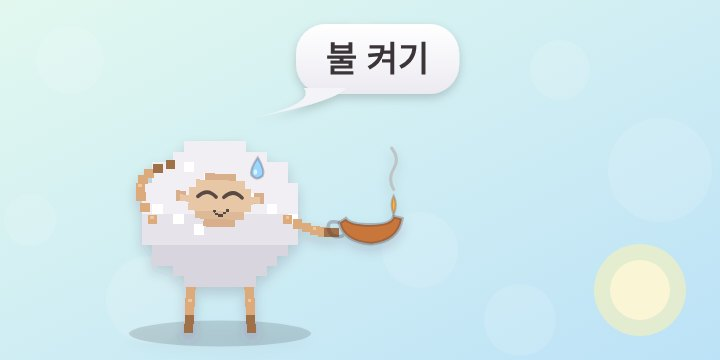
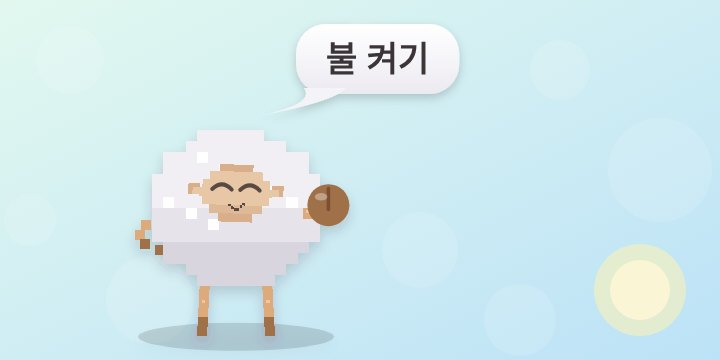
Curate 30 reminder sheep poses

Changed region(s): [[0.1833, 0.3667, 0.5806, 0.7028], [0.1833, 0.7028, 0.4583, 0.9778]]

diff --git a/sw.js b/sw.js
@@ -9,10 +9,10 @@ const DEFAULT_MESSAGES = {
   // 아침(~12시): 아침부터 슬쩍 킹받게
   morning: [
     ["아담아, 네가 어디 있느냐 👀", "하나님이 아담을 찾으시던 그 질문(창 3:9), 지금 성경책이 똑같이 묻고 있어요. 오늘 분량 {portion}.", "point", "너 어디 있니?"],
-    ["새벽기도는 놓쳤어도 괜찮아요 🌅", "주의 긍휼은 아침마다 새롭다잖아요(애 3:22-23). 아침 기회도 아직 새거예요. {portion} 펼쳐요.", "stretch", "아직 아침임"],
+    ["새벽기도는 놓쳤어도 괜찮아요 🌅","주의 긍휼은 아침마다 새롭다잖아요(애 3:22-23). 아침 기회도 아직 새거예요. {portion} 펼쳐요.","cheer","아직 아침임"],
     ["만나는 해 뜨거워지면 녹습니다 🫠", "출애굽기 16장 21절 실화. 오늘 만나({portion})도 점심 전에 거두는 게 국룰이에요.", "shock", "만나 녹는 중"],
     ["아침 묵상 안 한 양 찾습니다 🔍","목자는 아흔아홉 마리 두고 한 마리를 찾는다던데(눅 15:4)… 네, 지금 찾는 그 한 마리가 당신이에요.","reach","양 찾습니다\n(당신임)"],
-    ["커피는 드셨고, 말씀은요? ☕", "커피는 벌써 두 잔째인데 성경은 아직 0장. 순서가 살짝 바뀐 것 같아요.", "sip", "커피 ≠ 말씀"],
+    ["커피는 드셨고, 말씀은요? ☕","커피는 벌써 두 잔째인데 성경은 아직 0장. 순서가 살짝 바뀐 것 같아요.","crosslegs","커피 ≠ 말씀"],
     ["다니엘은 하루 세 번 기도했대요 🦁", "사자 굴 각오하고도 했던 다니엘(단 6:10). 우리는 사자도 없는데 {portion} 정도는…?", "pray", "사자 없음 ㅇㅈ?"],
     ["알람 끄고 다시 잠든 거 다 알아요 🤫", "게으른 자여 네가 어느 때까지 누워 있겠느냐(잠 6:9). 잠언이 너무 정확해서 무서운 아침이에요.", "shush", "다 봤음"],
     ["카톡 30개보다 말씀 1장 먼저 📱","알림 빨간 숫자는 기다려 줘요. 오늘 분량 {portion}은 아침에 읽어야 제맛이고요.","phonewait","카톡 말고 이거"],
@@ -22,22 +22,22 @@ const DEFAULT_MESSAGES = {
     ["아침부터 갓생 선언 🔥", "갓생의 시작은 여호와를 경외하는 데서 시작한대요(잠 1:7). {portion} 한 장이면 시작 완료!", "cheer", "갓생 시작"],
     ["알람 5개 끄고 일어난 거 인정 ⏰", "잠 6:10은 '조금 더 자고 팔짱 끼고'를 경고해요. 이제 팔짱 푸시고 {portion}!", "armscross", "팔짱 풀기"],
     ["오늘 목표: 어제보다 1절 더 🎯", "엄청 많이 말고 어제보다 한 절만 더요. 작은 걸음이 쌓이면 길이 돼요.", "point", "1절만 더"],
-    ["공복에 말씀 먼저 🍳", "몸 밥은 나중에, 영혼 밥은 먼저요(마 4:4). {portion} 드시고 아침 드세요.", "sip", "말씀 먼저 간식"],
-    ["물 말고 말씀부터? 💧", "물은 한 잔이면 충분하지만 말씀은 아침에 한 장이 베스트래요.", "stretch", "물 말고 말씀"],
+    ["공복에 말씀 먼저 🍳","몸 밥은 나중에, 영혼 밥은 먼저요(마 4:4). {portion} 드시고 아침 드세요.","crosslegs","말씀 먼저 간식"],
+    ["물 말고 말씀부터? 💧","물은 한 잔이면 충분하지만 말씀은 아침에 한 장이 베스트래요.","cheer","물 말고 말씀"],
     ["어제 읽다 졸았죠? 😏", "괜찮아요. 그래도 오늘 {portion}은 깨어서 봐요. 베드로도 졸았지만 다시 깨어났잖아요(마 26:40).", "peek", "졸았는지 다 봤음"],
     ["출석 부름 받은 거 아시죠? 📋", "하나님은 아담을 부르셨죠(창 3:9). 오늘도 호명에 대답하기! {portion} 펴요.", "sign", "출석 부름"],
   ["새벽 미명에 일어난 사람 🌄","다윗도 새벽에 일어나 말씀에 매달렸대요(시 119:147). 오늘 {portion}, 해 뜨기 전에 먼저 만나 봐요.","run","해 뜨기 전 ㅊㅊ"],
-  ["아침 첫 소리는 하나님 말씀으로 📣","하루의 첫 소리를 무엇으로 채울지 정해 봐요. 오늘은 {portion}이 첫 방송이에요.","megaphone","첫 방송 예약"],
-  ["아침 등불은 말씀이래요 💡","주의 말씀은 내 발에 등이요(시 119:105). 어두운 아침, {portion}으로 불부터 켜요.","lamp","불 켜기"],
-  ["오늘 아침 얼굴 붉히지 않게 🌸","부끄러울 일 없는 하루는 말씀으로 시작할 때 쉬워요. {portion}, 지금 펼쳐 볼까요?","blush","얼굴 빨개짐"],
+  ["아침 첫 소리는 하나님 말씀으로 📣","하루의 첫 소리를 무엇으로 채울지 정해 봐요. 오늘은 {portion}이 첫 방송이에요.","sign","첫 방송 예약"],
+  ["아침 등불은 말씀이래요 💡","주의 말씀은 내 발에 등이요(시 119:105). 어두운 아침, {portion}으로 불부터 켜요.","point","불 켜기"],
+  ["오늘 아침 얼굴 붉히지 않게 🌸","부끄러울 일 없는 하루는 말씀으로 시작할 때 쉬워요. {portion}, 지금 펼쳐 볼까요?","heartplease","얼굴 빨개짐"],
   ["아침부터 이마 치기 전에 🤦","어제 뭘 읽었는지 가물가물하다면 괜찮아요. 오늘 {portion}으로 기억을 다시 채워요.","facepalm","기억 리셋"],
   ["새 아침은 새 말씀으로 🌱","주의 인자하심이 아침마다 새로워요(애 3:23). 오늘 {portion}도 처음 읽는 것처럼요.","pray","새 아침"],
-  ["아침 한 숟가락, 말씀 한 장 🥄","밥 한 숟가락 뜨기 전에 {portion} 한 절만 먼저 떠 보세요. 배부른 하루가 시작돼요.","sip","한 숟가락 먼저"],
-  ["독수리처럼 날개 치기 전에 🦅","날개 치며 오르려면 먼저 든든히 먹어야 해요(사 40:31). 오늘 {portion}이 그 든든한 아침이에요.","stretch","날개 준비"],
+  ["아침 한 숟가락, 말씀 한 장 🥄","밥 한 숟가락 뜨기 전에 {portion} 한 절만 먼저 떠 보세요. 배부른 하루가 시작돼요.","crosslegs","한 숟가락 먼저"],
+  ["독수리처럼 날개 치기 전에 🦅","날개 치며 오르려면 먼저 든든히 먹어야 해요(사 40:31). 오늘 {portion}이 그 든든한 아침이에요.","cheer","날개 준비"],
   ["나를 부지런히 찾는 자 🔎","새벽에 나를 찾는 자가 나를 만나리라(잠 8:17). 오늘도 {portion}에서 만나요.","peek","찾았다!"],
     ["좋은 아침이에요, 오늘도 함께 읽어요 ☀", "서두르지 않아도 괜찮아요. 오늘의 {portion}에서 마음에 닿는 한 문장을 만나 보세요.", "pray", "천천히 한 문장"],
-    ["오늘 첫 페이지를 열 시간 📖", "딱 한 장부터 시작해요. 작은 시작이 하루의 방향을 바꿔 줍니다.", "lamp", "첫 페이지"],
-    ["아침 브리핑: 오늘의 말씀 도착 🗞", "하늘에서 온 오늘의 소식입니다. {portion}, 지금 확인해 보세요.", "megaphone", "오늘의 말씀"],
+    ["오늘 첫 페이지를 열 시간 📖","딱 한 장부터 시작해요. 작은 시작이 하루의 방향을 바꿔 줍니다.","point","첫 페이지"],
+    ["아침 브리핑: 오늘의 말씀 도착 🗞","하늘에서 온 오늘의 소식입니다. {portion}, 지금 확인해 보세요.","sign","오늘의 말씀"],
   ],
   // 오후(12~18시) 나른할 때 찌르기
   afternoon: [
@@ -49,7 +49,7 @@ const DEFAULT_MESSAGES = {
     ["삭개오야, 속히 내려오라 🌳", "나무 위에서 구경만 하던 삭개오처럼(눅 19:5), 오늘 말씀도 구경만 하고 있진 않나요?", "point", "내려오라"],
     ["오늘 통독률 0%… 실화? ⏳", "와이파이는 빵빵한데 말씀 진도는 0%. 지금 {portion} 누르면 바로 로딩 시작이에요.", "eye_roll", "0%…실화?"],
     ["마리아는 좋은 편을 택했대요 ✨", "바쁜 오후여도 필요한 것은 한 가지(눅 10:42). 할 일 목록 맨 위에 {portion} 올려 둘게요.", "sign", "좋은 편\n택하는 중"],
-    ["바로 왕처럼 '내일' 하실 건가요? 🐸", "개구리 재앙 언제 없애 줄까 물으니 '내일'이라던 바로(출 8:10). 어디서 많이 본 패턴인데요.", "sip", "내일? 🐸"],
+    ["바로 왕처럼 '내일' 하실 건가요? 🐸","개구리 재앙 언제 없애 줄까 물으니 '내일'이라던 바로(출 8:10). 어디서 많이 본 패턴인데요.","crosslegs","내일? 🐸"],
     ["남은 알림 전에 선수 치기 🏃", "지금 읽으면 오늘 남은 알림이 조용해져요. 알림 피하는 가장 빠른 방법!", "shush", "조용히 끝내자"],
     ["오후 3시 집중력 바닥 🫠", "엘리야도 로뎀나무 아래서 쓰러졌지만 천사가 먹을 것을 주고 다시 세웠어요(왕상 19:5-7). {portion} 한 장으로 충전!", "lounge", "충전 필요"],
     ["점심 먹고 쇼츠 3개 봤죠? 📱", "쇼츠는 3개에서 멈추기 힘들지만, 성경은 {portion} 한 장에서 멈춰도 괜찮아요.", "phone", "쇼츠 말고 이거"],
@@ -59,7 +59,7 @@ const DEFAULT_MESSAGES = {
     ["오후 간식은 말씀 간식 🍪", "꿀보다 달다는 말씀이에요(시 119:103). 칼로리 걱정 없는 간식! {portion} 한 입.", "crosslegs", "칼로리 0"],
     ["버스 타는 중이면 한 절 🚌", "버스 세 정거장이면 한 장도 가능한 거리예요. {portion} 열어 두세요.", "phone", "버스에서 한 절"],
     ["'내일 하지 뭐' 금지 ⏳","바로처럼 미루다 보면 결국 못 가요(출 8:10). 지금 {portion} 부탁!","fingerwag","내일 금지"],
-    ["잠깐, 마음에 쉼표를 놓아 볼까요? 🍃", "바쁜 틈에 숨을 고르고 {portion} 한 장 읽어요. 오늘도 충분히 잘하고 있어요.", "stretch", "마음의 쉼표"],
+    ["잠깐, 마음에 쉼표를 놓아 볼까요? 🍃","바쁜 틈에 숨을 고르고 {portion} 한 장 읽어요. 오늘도 충분히 잘하고 있어요.","cheer","마음의 쉼표"],
     ["3분만 집중 모드 켜기 🎧", "알림은 잠시 내려놓고 말씀 한 단락만 읽어 봐요. 작은 집중이 깊은 쉼이 됩니다.", "phone", "집중 모드"],
     ["속보: 오후의 내가 말씀을 기다립니다 📰", "쇼츠 한 편 대신 {portion} 한 장이면 오늘 이야기의 주인공은 나예요.", "sign", "속보입니다"],
   ],
@@ -73,8 +73,8 @@ const DEFAULT_MESSAGES = {
     ["저녁은 드셨고, 말씀은요? 🍚", "사람이 떡으로만 살 것이 아니라 하셨는데(마 4:4), 오늘 설마 떡만 드신 건 아니죠?", "armscross", "떡만 먹음?"],
     ["롯의 아내처럼 뒤돌아보지 마요 🧂", "오늘 하루 돌아보며 한숨 쉬지 말고(창 19:26), 앞에 놓인 {portion}만 보고 가요.", "shock", "소금 될 뻔"],
     ["노아는 비 오기 전에 방주 지었어요 🛶", "비 오고 나서 지으면 늦잖아요(창 6:22). 자정 오기 전에 {portion} 지어 봐요.", "run", "비 오기 전에!"],
-    ["여리고는 일곱 바퀴, 오늘은 한 장부터 🎺", "여리고 성은 일곱 바퀴 돌아야 무너졌지만(수 6:4), 오늘 분량은 한 장씩 넘기면 무너져요.", "megaphone", "뿌우우~"],
-    ["기드온처럼 표징 기다리는 중? 🐑","양털로 확인하던 기드온처럼(삿 6:37) 사인을 기다리셨다면… 이 양이 그 표징입니다. 지금 읽으세요.","smirk","이게 표징임"],
+    ["여리고는 일곱 바퀴, 오늘은 한 장부터 🎺","여리고 성은 일곱 바퀴 돌아야 무너졌지만(수 6:4), 오늘 분량은 한 장씩 넘기면 무너져요.","sign","뿌우우~"],
+    ["기드온처럼 표징 기다리는 중? 🐑","양털로 확인하던 기드온처럼(삿 6:37) 사인을 기다리셨다면… 이 양이 그 표징입니다. 지금 읽으세요.","condescend","이게 표징임"],
     ["저녁 먹고 뭐 하세요? 🍽","설거지 끝나고 소파에 눕기 전에 {portion} 먼저 펼쳐요. 누워서 해도 인정!","sideeye","소파 전에 한 장"],
     ["오늘 하루 감사 한 줄 준비 ✍", "오늘 말씀 한 절에 감사 한 줄 쓰면 하루가 완성돼요(살전 5:18).", "sign", "감사 한 줄"],
     ["ㅋㅋ 오늘 통독 안 하고 밤 되었죠? 🌙", "밤에 하면 조금 더 힘들어요. 그래도 {portion} 한 장!", "shock", "밤이 왔다"],
@@ -96,42 +96,42 @@ const DEFAULT_MESSAGES = {
     ["보아스가 이삭을 남겨 뒀어요 🌾", "룻을 위해 일부러 이삭을 흘려 두던 보아스처럼(룻 2:16), 오늘 말씀 이삭도 넉넉히 남아 있어요.", "crosslegs", "이삭 남음 ㅎ"],
     ["에스라는 새벽부터 정오까지 읽었대요 📖", "느헤미야 8장의 에스라는 반나절을 읽었는데(느 8:3), 우리는 {portion}이면 돼요. 할 만하죠?", "sign", "에스라: 6시간\n나: 0분"],
     ["주야로 묵상, 이제 '야'만 남았어요 🌙", "복 있는 사람은 주야로 묵상한다죠(시 1:2). 낮은 지나갔지만 밤은 아직 길어요.", "lounge", "이제 '야'임"],
-    ["발람의 나귀도 말을 했는데 🫏", "나귀까지 입을 열어 말렸는데(민 22:28), 이제 양까지 나섰습니다. 성경 펴세요.", "megaphone", "양도 말함"],
-    ["닭 울기 전에 세 번째 다짐? 🐓", "“오늘은 진짜 읽는다” 오늘 몇 번째 다짐이세요? 닭 울기 전에 지켜 봐요(마 26:34).", "sip", "세 번째임"],
-    ["섭리 가운데 도착한 알림입니다 😌","이 알림을 지금 보신 것도 섭리 안에 있겠죠? 순종으로 응답할 시간이에요.","smirk","섭리임 ㅇㅇ"],
-    ["밤이 깊을수록 말씀이 또렷 🌃","밤에 읽는 시편은 참 맛있어요. 주야로 묵상하는 사람은 복 있는 사람이래요(시 1:2). {portion}!","shrug","밤 시편 맛집"],
+    ["발람의 나귀도 말을 했는데 🫏","나귀까지 입을 열어 말렸는데(민 22:28), 이제 양까지 나섰습니다. 성경 펴세요.","sign","양도 말함"],
+    ["닭 울기 전에 세 번째 다짐? 🐓","“오늘은 진짜 읽는다” 오늘 몇 번째 다짐이세요? 닭 울기 전에 지켜 봐요(마 26:34).","crosslegs","세 번째임"],
+    ["섭리 가운데 도착한 알림입니다 😌","이 알림을 지금 보신 것도 섭리 안에 있겠죠? 순종으로 응답할 시간이에요.","condescend","섭리임 ㅇㅇ"],
+    ["밤이 깊을수록 말씀이 또렷 🌃","밤에 읽는 시편은 참 맛있어요. 주야로 묵상하는 사람은 복 있는 사람이래요(시 1:2). {portion}!","condescend","밤 시편 맛집"],
     ["ㅅㄱ 또 밤에 생각났죠? 🤭", "밤에 생각나는 말씀이 제일 오래 남아요. 지금 {portion} 한 장만요.", "crosslegs", "밤에 생각남"],
     ["잠들기 전 기도 한마디 + 말씀 한 장 🙏","자기 전 말씀 한 장, 기도 한 줄이면 완벽한 마무리예요. {portion} 펴고 기도해요.","kneel","취침 전 루틴"],
     ["오늘 완주 못 하면 어떡하지… 😰","완벽하지 않아도 돼요. 할 수 있는 만큼, {portion} 한 절부터 시작해요.","pleading","한 절이면 됨"],
     ["밤 11시, 아직 살아 계신가요? 👀", "밤샘은 말고, 깨어 있을 때 {portion} 한 번만 펼쳐요(마 26:41).", "shush", "깨어 있기"],
     ["쇼츠 대신 시편 한 편? 🎵","시편은 노래책이라 노래 한 곡 듣는 셈 쳐요. {portion} 열고 소리 내 읽어 봐요.","offerbook","시편 틀기"],
     ["자려고 누웠는데 폰 보는 중 🛌","누운 채로 {portion} 한 절만요. 그리고 폰은 내려놓아요.","phonewait","누워서 한 절"],
-    ["오늘 진짜 마지막 질문! 📣", "오늘 말씀 읽었나요? NO면 지금 {portion} 한 절만 읽고 주무세요.", "slowclap", "YES or NO?"],
+    ["오늘 진짜 마지막 질문! 📣","오늘 말씀 읽었나요? NO면 지금 {portion} 한 절만 읽고 주무세요.","eye_roll","YES or NO?"],
     ["오늘 하루, 여기까지도 수고했어요 🌌","남은 힘이 적다면 한 절만 읽어도 좋아요. 말씀 안에서 하루를 다정하게 마무리해요.","heartplease","한 절도 좋아요"],
-    ["마감 임박! 성경책은 야근 안 시킬게요 🕘","전부 끝내려 애쓰지 않아도 돼요. {portion}에서 한 장만 함께 읽어요.","ugh","한 장이면 충분"],
-    ["야식 대신 말씀 한 입 🍯", "오늘의 양식은 아직 남아 있어요. {portion} 한 장 맛보고 편히 잠들어요.", "sip", "마음 야식"],
+    ["마감 임박! 성경책은 야근 안 시킬게요 🕘","전부 끝내려 애쓰지 않아도 돼요. {portion}에서 한 장만 함께 읽어요.","facepalm","한 장이면 충분"],
+    ["야식 대신 말씀 한 입 🍯","오늘의 양식은 아직 남아 있어요. {portion} 한 장 맛보고 편히 잠들어요.","crosslegs","마음 야식"],
   ],
   // 늦은 밤(22시~): 마지막 알림
   last: [
-    ["열 처녀 비유, 등불 점검 🪔", "자정까지 한 시간! 오늘 통독 등불이 아직 꺼져 있어요(마 25장). 기름 채우러 가요.", "lamp", "기름 없음!!"],
-    ["🔥 {streak}일 연속 기록이 위태로워요","바울은 달려갈 길을 마쳤다는데(딤후 4:7), 우리의 연속 통독은 오늘 멈출 위기예요.","beg","연속 기록!!","streak"],
+    ["열 처녀 비유, 등불 점검 🪔","자정까지 한 시간! 오늘 통독 등불이 아직 꺼져 있어요(마 25장). 기름 채우러 가요.","point","기름 없음!!"],
+    ["🔥 {streak}일 연속 기록이 위태로워요","바울은 달려갈 길을 마쳤다는데(딤후 4:7), 우리의 연속 통독은 오늘 멈출 위기예요.","cling","연속 기록!!","streak"],
     ["니고데모도 밤에 찾아왔어요 🌃", "늦은 밤에 말씀 앞에 나와도 괜찮아요(요 3:2). 지금 한 장이라도 펼쳐요.", "peek", "밤에 와도 됨"],
     ["개미에게 가서 배우라시던데요 🐜", "잠언 6장 6절이 이 시간에 떠오른 건 우연일까요? 아직 늦지 않았어요.", "sign", "개미 보고\n배우는 중"],
     ["당회에는 비밀로 할게요 🤫", "오늘 통독 안 한 거, 목사님·장로님껜 말 안 할게요. 대신 자기 전에 {portion} 딱 펼쳐 주세요.", "shush", "비밀 지켜줌"],
     ["마지막 알림이에요. 진짜로요.","은혜는 값없이 주어지지만 성경은 펼쳐야 읽혀요. 오늘이 가기 전에 한 장만이라도! 🙏","lastlook","진짜 마지막"],
     ["말씀 기근 경보 ⚠","양식이 아니라 말씀이 없는 기근이 가장 무섭다죠(암 8:11). 자정 전에 해제해 주세요.","tearful","기근 경보!!"],
     ["내일의 나에게 떠넘기기 금지 🙅", "내일 일은 내일이 염려할 거예요(마 6:34). 오늘 분량은 오늘 읽기로 해요.", "armscross", "내일 금지"],
-    ["삼손, 머리카락 잘리기 직전 ✂", "들릴라 무릎에서 잠든 삼손처럼(삿 16:19) 이대로 자면… 오늘 통독도 싹둑이에요.", "faint", "힘이 빠져…"],
-    ["이불 속에서도 성경은 열려요 🛏", "이불 밖은 위험하다지만 성경 앱은 이불 안에서도 열려요. 자기 전 {portion}, 누운 채로 가능!", "hide", "누워서 가능"],
+    ["삼손, 머리카락 잘리기 직전 ✂","들릴라 무릎에서 잠든 삼손처럼(삿 16:19) 이대로 자면… 오늘 통독도 싹둑이에요.","shock","힘이 빠져…"],
+    ["이불 속에서도 성경은 열려요 🛏","이불 밖은 위험하다지만 성경 앱은 이불 안에서도 열려요. 자기 전 {portion}, 누운 채로 가능!","phone","누워서 가능"],
     ["방주 문 닫히기 전 마지막 탑승 🚪", "방주 문은 하나님이 닫으셨죠(창 7:16). 오늘 통독 문은 자정에 닫혀요. 지금 탑승!", "point", "탑승하세요"],
     ["자정 전 마지막 기회 ⏰","마감 5분 전! {portion} 한 절이라도 오늘 안에 체크해요.","stomp","마감 5분 전"],
     ["여기까지 온 것도 잘한 일이에요 💛","늦었다고 자책하지 말고 한 절만 읽어요. 오늘의 작은 시작도 귀합니다.","lastlook","작은 시작도 귀해요"],
     ["마지막 퀘스트: 말씀 한 장 🎮","오늘의 출석 보상은 거창하지 않아요. {portion} 한 장 읽고 편히 로그아웃!","clutchbook","퀘스트 수락?"],
     ["속보: 오늘의 빈칸, 아직 채울 수 있음 🗞","자정 전까지 시간이 있어요. {portion} 한 장으로 오늘을 마무리해요.","reach","마감 전 속보"],
-    ["오늘 통독표 빈칸 발견 🕳","하루 빈칸이 쌓이면 허전하죠. 지금 {portion} 한 절로 메워 봐요.","wait","빈칸 발견"],
+    ["오늘 통독표 빈칸 발견 🕳","하루 빈칸이 쌓이면 허전하죠. 지금 {portion} 한 절로 메워 봐요.","phonewait","빈칸 발견"],
     ["달은 떴는데 성경은 안 펴졌네요 🌙", "지금 한 절만 펴면 오늘의 달빛이 말씀이 돼요.", "peek", "달빛 말씀"],
     ["불 끄기 전 마지막 체크 💡", "방 불 끄기 전에 {portion} 체크하고 주무세요. 잔소리 아니고 알림입니다.", "nope", "불 끄기 전에"],
-    ["성경도 자러 가고 싶대요 🛏", "책도 오늘 밤 펴서 읽어 주면 좋아해요. {portion} 펴 줘요!", "hide", "책도 잠 필요"],
+    ["성경도 자러 가고 싶대요 🛏","책도 오늘 밤 펴서 읽어 주면 좋아해요. {portion} 펴 줘요!","phone","책도 잠 필요"],
     ["오늘 마지막 알림, 착한 양들 🐑🐑","오늘 한 장이라도 읽은 양이면 좋겠어요. {portion}, 지금이 골든타임!","cling","오늘 마지막 콜"],
   ],
   // 앱에서는 이미 읽었는데 서버에 아직 반영되지 않았을 때
@@ -234,7 +234,7 @@ async function buildMessage() {
   const fill = (s) => s.replace(/\{portion\}/g, portion).replace(/\{streak\}/g, String(streak));
   // 메시지마다 양(🐑) 포즈 그림: icons/notify/<시간대>-<원래 순서>.jpg (안드로이드·PC 크롬/엣지에서 크게 보임, 아이폰은 표시 안 함)
   const rowIndex = MESSAGES[tier].indexOf(pool[idx]);
-  const image = pool[idx][5] || `icons/notify/${tier}-${rowIndex}.jpg?v=sheep-curved-eyes-20261028`;
+  const image = pool[idx][5] || `icons/notify/${tier}-${rowIndex}.jpg?v=sheep-thirty-poses-20261028`;
   return { title: fill(pool[idx][0]), body: fill(pool[idx][1]), image };
 }
 

diff --git a/tools/notify-art/art.js b/tools/notify-art/art.js
@@ -215,7 +215,6 @@ const hang = (side) => limb([[side * 52, 4], [side * 64, 22], [side * 64, 40]]);
 const hip = (side) => limb([[side * 52, 4], [side * 84, 22], [side * 54, 30]]);
 
 const POSES = {
-  // 쉿 🤫
   shush: () => shadow(0, 92) + legs() + hang(-1) + sheep({ expr: "vv,none" }) + limb([[52, 4], [44, 26], [6, -4]]),
   // 헉 😱 (눈은 여전히 ^^)
   shock: () => shadow(0, 92) + limb([[-22, 48], [-8, 70], [-26, 88]]) + limb([[22, 48], [8, 70], [26, 88]]) +
@@ -257,9 +256,6 @@ const POSES = {
     sheep({ rx: 92, ry: 42, fx: -62, fy: -8, frot: 6, expr: "^^,glow" }) + phone(-66, 44, -10) +
     limb([[-40, 40], [-60, 56], [-76, 50]]) + limb([[-86, 30], [-98, 50], [-82, 56]]),
   // 기름 떨어진 등불
-  lamp: () => shadow(0, 92) + legs() + sheep({ expr: "^^,o,sweat" }) + limb([[-52, 4], [-76, -30], [-38, -38]]) +
-    limb([[52, 4], [76, 16], [88, 14]]) + g("translate(116,10) scale(0.8)", lamp(0, 0, "tiny")),
-  // 피켓 시위 (말풍선 대신 피켓에 글씨)
   sign: (say) => shadow(0, 92) + legs() + sheep({ expr: "^^" }) +
     limb([[-52, 4], [-78, 0], [-90, -14]], { tip: false }) + limb([[52, 4], [78, 0], [90, -14]], { tip: false }) +
     signBoard(say, 0, 22, 196, 90) + hoofAt(-90, -18) + hoofAt(88, -24),
@@ -267,28 +263,6 @@ const POSES = {
   cheer: () => shadow(0, 92) + legs() + hang(-1) + sheep({ expr: "^^,blush", frot: 3 }) +
     limb([[52, 4], [66, 18], [72, 0]]),
   // 찻잔 홀짝 ☕
-  sip: () => shadow(0, 92) + legs() + limb([[-52, 4], [-40, 30], [-14, 26]]) + sheep({ expr: "vv,none" }) +
-    limb([[52, 4], [58, 20], [22, 8]]) + cup(10, 0, 0.8, -14),
-  // 확성기 📣
-  megaphone: () => shadow(0, 92) + legs() + hip(1) + sheep({ expr: "^^,none" }) +
-    g("translate(-26,-2) scale(-0.8,0.8) rotate(-6)", megaphone(0, 0, 0)) + limb([[-52, 4], [-50, 26], [-30, 6]]),
-  // 발라당 기절 (막대 다리 넷이 하늘로)
-  faint: () => shadow(0, 76, 120, 9) +
-    limb([[-44, 0], [-50, -60]]) + limb([[-18, -6], [-16, -66]]) + limb([[20, -6], [24, -66]]) + limb([[46, 0], [54, -58]]) +
-    sheep({ rx: 90, ry: 44, fx: -66, fy: 18, frot: -24, expr: "^^,tears,o", flip: true }) + orbit(-70, -30),
-  // 이불 속에서 빼꼼
-  hide: () => shadow(20, 100, 150, 11) + ell(-110, 40, 56, 22, "#fff", `stroke="${C.ol}" stroke-width="${OW}"`) +
-    face(-100, 16, { expr: "^^,blush", rot: -8, s: 1.2 }) + blanket() + hoofAt(-74, 36) + hoofAt(-56, 32),
-  // 기지개 하아암
-  stretch: () => shadow(0, 92) + legs() + limb([[-52, 0], [-56, -40], [-44, -84]]) + limb([[52, 0], [56, -40], [44, -84]]) +
-    sheep({ expr: "vv,o", frot: -6 }) + ell(-18, -16, 2, 3, C.tear),
-  // 쭈글쭈글 울상 😭 (뒤로가기로 나가려 할 때)
-  sob: () => shadow(0, 92) + legs() + limb([[-52, 4], [-62, 26], [-40, 30]]) + limb([[52, 4], [62, 26], [40, 30]]) +
-    sheep({ expr: "vv,tears,blush" }),
-  // 볼이 붉어진 채 앞발로 뺨을 감싸는 양.
-  blush: () => shadow(0, 92) + legs() + sheep({ expr: "vv,blush", frot: -5 }) +
-    limb([[-52, 4], [-44, -10], [-27, -8]]) + limb([[52, 4], [44, -10], [27, -8]]),
-  // 눈만 옆으로 굴리고 팔짱 낀 채 발을 까딱이는 킹받는 눈치.
   sideeye: () => shadow(0, 92) + legs() + sheep({ expr: "side,flat" }) +
     limb([[-52, 4], [-20, 32], [34, 18]]) + limb([[52, 4], [18, 34], [-34, 20]]) + tapMarks(42, 88) +
     line("M-91,-26 L-76,-34 M-96,-12 L-78,-15", "#E56B62", 3),
@@ -302,17 +276,6 @@ const POSES = {
     sheep({ expr: "squint,brow,pout", frot: -7 }) + hip(-1) +
     limb([[52, 4], [72, 18], [70, 40]]) + line("M42,91 L31,101 M56,94 L53,108 M70,91 L80,101", "#E5A34B", 4),
   // 짝짝짝 박수는 치지만 눈은 전혀 웃지 않는다.
-  slowclap: () => shadow(0, 92) + legs() + sheep({ expr: "side,flat" }) +
-    limb([[-52, 4], [-30, 30], [-6, 8]]) + limb([[52, 4], [30, 30], [7, 8]]) +
-    hoofAt(-5, 7, 8) + hoofAt(6, 7, 8) + line("M-24,-18 L-32,-28 M0,-25 L0,-38 M24,-18 L32,-28", "#F2C14E", 3),
-  // 이마를 짚고 길게 한숨을 내쉰다.
-  ugh: () => shadow(0, 92) + legs() + sheep({ expr: "squint,flat,sweat", frot: 8 }) +
-    hang(-1) + limb([[52, 4], [66, -30], [12, -28]]) + sighCloud(72, -35),
-  // 어깨를 으쓱하며 '내가 뭘 더 해' 하는 표정.
-  shrug: () => shadow(0, 92) + legs() + sheep({ expr: "side,pout" }) +
-    limb([[-52, 4], [-80, -20], [-68, -42]]) + limb([[52, 4], [80, -20], [68, -42]]) +
-    line("M-84,-54 L-96,-62 M-68,-59 L-66,-74 M64,-59 L62,-74 M80,-54 L92,-62", "#FFFFFF", 3),
-  // 양쪽 앞발로 귀를 막고 뒤돌아 버리는 짜증 섞인 거부.
   nope: () => shadow(0, 92) + legs() + sheep({ expr: "squint,brow,flat", frot: 10, flip: true }) +
     limb([[-52, 4], [-36, -18], [-28, -18]]) + limb([[52, 4], [36, -18], [28, -18]]) +
     line("M-91,-28 L-105,-38 M-96,-12 L-112,-12 M91,-28 L105,-38 M96,-12 L112,-12", "#E56B62", 4),
@@ -320,9 +283,6 @@ const POSES = {
   condescend: () => shadow(0, 92) + legs() + sheep({ expr: "down,smirk,brow", frot: -10 }) +
     hip(-1) + limb([[52, 4], [76, 18], [88, 12]]) + line("M-99,-42 L-80,-48 M-100,-28 L-82,-31", "#D9C9B5", 3),
   // 한쪽 눈썹만 올린 채 여유롭게 미소 짓는다.
-  smirk: () => shadow(0, 92) + legs() + sheep({ expr: "side,smirk" }) +
-    limb([[-52, 4], [-24, 30], [18, 17]]) + hip(1) + sparkle(78, -50, 0.45),
-  // 성경 쪽을 콕콕 가리키며 잔소리 아닌 잔소리.
   fingerwag: () => shadow(0, 92) + legs() + sheep({ expr: "squint,brow,flat" }) + hang(-1) +
     limb([[52, 4], [66, -12], [82, -38]], { tip: false, w: 9 }) +
     line("M83,-54 L83,-40 M75,-50 L79,-42 M91,-50 L87,-42", "#F2C14E", 3),
@@ -363,18 +323,10 @@ const POSES = {
     limb([[-52, 4], [-75, 24], [-70, 42]]) + limb([[52, 4], [65, 24], [52, 42]]) +
     line("M-105,-42 Q-124,-24 -111,-9 M-116,-42 L-106,-48", "#FFFFFF", 3),
   // 양을 끌어안듯 다리를 감싸며 가지 말라고 매달린다.
-  beg: () => shadow(0, 95, 86) + limb([[-22, 48], [-35, 76], [-46, 88]]) + limb([[22, 48], [34, 75], [48, 88]]) +
-    sheep({ expr: "sad,tears,pout", frot: -9 }) + limb([[-52, 4], [-72, 25], [-48, 38]]) + limb([[52, 4], [73, 22], [52, 37]]) +
-    bubbleText("가지 마…", 86, -50),
-  // 성경을 건네며 읽어 달라고 조심스레 손을 내민다.
   offerbook: () => shadow(0, 92) + legs() + sheep({ expr: "sad,blush" }) +
     limb([[-52, 4], [-67, 24], [-76, 34]]) + limb([[52, 4], [77, 18], [86, 6]]) +
     bible(96, -4, 42, 54, 12),
   // 무릎을 끌어안고 기다리지만 눈길은 문 쪽으로 향한다.
-  wait: () => shadow(0, 100, 84) + stool(0, 66) +
-    limb([[-22, 48], [-34, 66], [-38, 90]]) + limb([[22, 48], [34, 66], [38, 90]]) +
-    sheep({ expr: "side,sad", frot: 8 }) + limb([[-52, 4], [-24, 43], [22, 38]]) +
-    limb([[52, 4], [28, 42], [-20, 43]]) + bubbleText("기다릴게…", 90, -50),
 };
 
 function bubbleText(text, x, y) {

diff --git a/docs/reminder-catalog.md b/docs/reminder-catalog.md
@@ -9,10 +9,10 @@
 | # | 알림 제목 | 알림 본문 | 양 포즈 | 그림 말풍선 | 조건 | 이미지 |
 |---:|---|---|---|---|---|---|
 | 1 | 아담아, 네가 어디 있느냐 👀 | 하나님이 아담을 찾으시던 그 질문(창 3:9), 지금 성경책이 똑같이 묻고 있어요. 오늘 분량 {portion}. | `point` | 너 어디 있니? | 항상 | [그림 보기](../icons/notify/morning-0.jpg) |
-| 2 | 새벽기도는 놓쳤어도 괜찮아요 🌅 | 주의 긍휼은 아침마다 새롭다잖아요(애 3:22-23). 아침 기회도 아직 새거예요. {portion} 펼쳐요. | `stretch` | 아직 아침임 | 항상 | [그림 보기](../icons/notify/morning-1.jpg) |
+| 2 | 새벽기도는 놓쳤어도 괜찮아요 🌅 | 주의 긍휼은 아침마다 새롭다잖아요(애 3:22-23). 아침 기회도 아직 새거예요. {portion} 펼쳐요. | `cheer` | 아직 아침임 | 항상 | [그림 보기](../icons/notify/morning-1.jpg) |
 | 3 | 만나는 해 뜨거워지면 녹습니다 🫠 | 출애굽기 16장 21절 실화. 오늘 만나({portion})도 점심 전에 거두는 게 국룰이에요. | `shock` | 만나 녹는 중 | 항상 | [그림 보기](../icons/notify/morning-2.jpg) |
 | 4 | 아침 묵상 안 한 양 찾습니다 🔍 | 목자는 아흔아홉 마리 두고 한 마리를 찾는다던데(눅 15:4)… 네, 지금 찾는 그 한 마리가 당신이에요. | `reach` | 양 찾습니다<br>(당신임) | 항상 | [그림 보기](../icons/notify/morning-3.jpg) |
-| 5 | 커피는 드셨고, 말씀은요? ☕ | 커피는 벌써 두 잔째인데 성경은 아직 0장. 순서가 살짝 바뀐 것 같아요. | `sip` | 커피 ≠ 말씀 | 항상 | [그림 보기](../icons/notify/morning-4.jpg) |
+| 5 | 커피는 드셨고, 말씀은요? ☕ | 커피는 벌써 두 잔째인데 성경은 아직 0장. 순서가 살짝 바뀐 것 같아요. | `crosslegs` | 커피 ≠ 말씀 | 항상 | [그림 보기](../icons/notify/morning-4.jpg) |
 | 6 | 다니엘은 하루 세 번 기도했대요 🦁 | 사자 굴 각오하고도 했던 다니엘(단 6:10). 우리는 사자도 없는데 {portion} 정도는…? | `pray` | 사자 없음 ㅇㅈ? | 항상 | [그림 보기](../icons/notify/morning-5.jpg) |
 | 7 | 알람 끄고 다시 잠든 거 다 알아요 🤫 | 게으른 자여 네가 어느 때까지 누워 있겠느냐(잠 6:9). 잠언이 너무 정확해서 무서운 아침이에요. | `shush` | 다 봤음 | 항상 | [그림 보기](../icons/notify/morning-6.jpg) |
 | 8 | 카톡 30개보다 말씀 1장 먼저 📱 | 알림 빨간 숫자는 기다려 줘요. 오늘 분량 {portion}은 아침에 읽어야 제맛이고요. | `phonewait` | 카톡 말고 이거 | 항상 | [그림 보기](../icons/notify/morning-7.jpg) |
@@ -22,22 +22,22 @@
 | 12 | 아침부터 갓생 선언 🔥 | 갓생의 시작은 여호와를 경외하는 데서 시작한대요(잠 1:7). {portion} 한 장이면 시작 완료! | `cheer` | 갓생 시작 | 항상 | [그림 보기](../icons/notify/morning-11.jpg) |
 | 13 | 알람 5개 끄고 일어난 거 인정 ⏰ | 잠 6:10은 '조금 더 자고 팔짱 끼고'를 경고해요. 이제 팔짱 푸시고 {portion}! | `armscross` | 팔짱 풀기 | 항상 | [그림 보기](../icons/notify/morning-12.jpg) |
 | 14 | 오늘 목표: 어제보다 1절 더 🎯 | 엄청 많이 말고 어제보다 한 절만 더요. 작은 걸음이 쌓이면 길이 돼요. | `point` | 1절만 더 | 항상 | [그림 보기](../icons/notify/morning-13.jpg) |
-| 15 | 공복에 말씀 먼저 🍳 | 몸 밥은 나중에, 영혼 밥은 먼저요(마 4:4). {portion} 드시고 아침 드세요. | `sip` | 말씀 먼저 간식 | 항상 | [그림 보기](../icons/notify/morning-14.jpg) |
-| 16 | 물 말고 말씀부터? 💧 | 물은 한 잔이면 충분하지만 말씀은 아침에 한 장이 베스트래요. | `stretch` | 물 말고 말씀 | 항상 | [그림 보기](../icons/notify/morning-15.jpg) |
+| 15 | 공복에 말씀 먼저 🍳 | 몸 밥은 나중에, 영혼 밥은 먼저요(마 4:4). {portion} 드시고 아침 드세요. | `crosslegs` | 말씀 먼저 간식 | 항상 | [그림 보기](../icons/notify/morning-14.jpg) |
+| 16 | 물 말고 말씀부터? 💧 | 물은 한 잔이면 충분하지만 말씀은 아침에 한 장이 베스트래요. | `cheer` | 물 말고 말씀 | 항상 | [그림 보기](../icons/notify/morning-15.jpg) |
 | 17 | 어제 읽다 졸았죠? 😏 | 괜찮아요. 그래도 오늘 {portion}은 깨어서 봐요. 베드로도 졸았지만 다시 깨어났잖아요(마 26:40). | `peek` | 졸았는지 다 봤음 | 항상 | [그림 보기](../icons/notify/morning-16.jpg) |
 | 18 | 출석 부름 받은 거 아시죠? 📋 | 하나님은 아담을 부르셨죠(창 3:9). 오늘도 호명에 대답하기! {portion} 펴요. | `sign` | 출석 부름 | 항상 | [그림 보기](../icons/notify/morning-17.jpg) |
 | 19 | 새벽 미명에 일어난 사람 🌄 | 다윗도 새벽에 일어나 말씀에 매달렸대요(시 119:147). 오늘 {portion}, 해 뜨기 전에 먼저 만나 봐요. | `run` | 해 뜨기 전 ㅊㅊ | 항상 | [그림 보기](../icons/notify/morning-18.jpg) |
-| 20 | 아침 첫 소리는 하나님 말씀으로 📣 | 하루의 첫 소리를 무엇으로 채울지 정해 봐요. 오늘은 {portion}이 첫 방송이에요. | `megaphone` | 첫 방송 예약 | 항상 | [그림 보기](../icons/notify/morning-19.jpg) |
-| 21 | 아침 등불은 말씀이래요 💡 | 주의 말씀은 내 발에 등이요(시 119:105). 어두운 아침, {portion}으로 불부터 켜요. | `lamp` | 불 켜기 | 항상 | [그림 보기](../icons/notify/morning-20.jpg) |
-| 22 | 오늘 아침 얼굴 붉히지 않게 🌸 | 부끄러울 일 없는 하루는 말씀으로 시작할 때 쉬워요. {portion}, 지금 펼쳐 볼까요? | `blush` | 얼굴 빨개짐 | 항상 | [그림 보기](../icons/notify/morning-21.jpg) |
+| 20 | 아침 첫 소리는 하나님 말씀으로 📣 | 하루의 첫 소리를 무엇으로 채울지 정해 봐요. 오늘은 {portion}이 첫 방송이에요. | `sign` | 첫 방송 예약 | 항상 | [그림 보기](../icons/notify/morning-19.jpg) |
+| 21 | 아침 등불은 말씀이래요 💡 | 주의 말씀은 내 발에 등이요(시 119:105). 어두운 아침, {portion}으로 불부터 켜요. | `point` | 불 켜기 | 항상 | [그림 보기](../icons/notify/morning-20.jpg) |
+| 22 | 오늘 아침 얼굴 붉히지 않게 🌸 | 부끄러울 일 없는 하루는 말씀으로 시작할 때 쉬워요. {portion}, 지금 펼쳐 볼까요? | `heartplease` | 얼굴 빨개짐 | 항상 | [그림 보기](../icons/notify/morning-21.jpg) |
 | 23 | 아침부터 이마 치기 전에 🤦 | 어제 뭘 읽었는지 가물가물하다면 괜찮아요. 오늘 {portion}으로 기억을 다시 채워요. | `facepalm` | 기억 리셋 | 항상 | [그림 보기](../icons/notify/morning-22.jpg) |
 | 24 | 새 아침은 새 말씀으로 🌱 | 주의 인자하심이 아침마다 새로워요(애 3:23). 오늘 {portion}도 처음 읽는 것처럼요. | `pray` | 새 아침 | 항상 | [그림 보기](../icons/notify/morning-23.jpg) |
-| 25 | 아침 한 숟가락, 말씀 한 장 🥄 | 밥 한 숟가락 뜨기 전에 {portion} 한 절만 먼저 떠 보세요. 배부른 하루가 시작돼요. | `sip` | 한 숟가락 먼저 | 항상 | [그림 보기](../icons/notify/morning-24.jpg) |
-| 26 | 독수리처럼 날개 치기 전에 🦅 | 날개 치며 오르려면 먼저 든든히 먹어야 해요(사 40:31). 오늘 {portion}이 그 든든한 아침이에요. | `stretch` | 날개 준비 | 항상 | [그림 보기](../icons/notify/morning-25.jpg) |
+| 25 | 아침 한 숟가락, 말씀 한 장 🥄 | 밥 한 숟가락 뜨기 전에 {portion} 한 절만 먼저 떠 보세요. 배부른 하루가 시작돼요. | `crosslegs` | 한 숟가락 먼저 | 항상 | [그림 보기](../icons/notify/morning-24.jpg) |
+| 26 | 독수리처럼 날개 치기 전에 🦅 | 날개 치며 오르려면 먼저 든든히 먹어야 해요(사 40:31). 오늘 {portion}이 그 든든한 아침이에요. | `cheer` | 날개 준비 | 항상 | [그림 보기](../icons/notify/morning-25.jpg) |
 | 27 | 나를 부지런히 찾는 자 🔎 | 새벽에 나를 찾는 자가 나를 만나리라(잠 8:17). 오늘도 {portion}에서 만나요. | `peek` | 찾았다! | 항상 | [그림 보기](../icons/notify/morning-26.jpg) |
 | 28 | 좋은 아침이에요, 오늘도 함께 읽어요 ☀ | 서두르지 않아도 괜찮아요. 오늘의 {portion}에서 마음에 닿는 한 문장을 만나 보세요. | `pray` | 천천히 한 문장 | 항상 | [그림 보기](../icons/notify/morning-27.jpg) |
-| 29 | 오늘 첫 페이지를 열 시간 📖 | 딱 한 장부터 시작해요. 작은 시작이 하루의 방향을 바꿔 줍니다. | `lamp` | 첫 페이지 | 항상 | [그림 보기](../icons/notify/morning-28.jpg) |
-| 30 | 아침 브리핑: 오늘의 말씀 도착 🗞 | 하늘에서 온 오늘의 소식입니다. {portion}, 지금 확인해 보세요. | `megaphone` | 오늘의 말씀 | 항상 | [그림 보기](../icons/notify/morning-29.jpg) |
+| 29 | 오늘 첫 페이지를 열 시간 📖 | 딱 한 장부터 시작해요. 작은 시작이 하루의 방향을 바꿔 줍니다. | `point` | 첫 페이지 | 항상 | [그림 보기](../icons/notify/morning-28.jpg) |
+| 30 | 아침 브리핑: 오늘의 말씀 도착 🗞 | 하늘에서 온 오늘의 소식입니다. {portion}, 지금 확인해 보세요. | `sign` | 오늘의 말씀 | 항상 | [그림 보기](../icons/notify/morning-29.jpg) |
 
 ## afternoon (21개)
 
@@ -51,7 +51,7 @@
 | 6 | 삭개오야, 속히 내려오라 🌳 | 나무 위에서 구경만 하던 삭개오처럼(눅 19:5), 오늘 말씀도 구경만 하고 있진 않나요? | `point` | 내려오라 | 항상 | [그림 보기](../icons/notify/afternoon-5.jpg) |
 | 7 | 오늘 통독률 0%… 실화? ⏳ | 와이파이는 빵빵한데 말씀 진도는 0%. 지금 {portion} 누르면 바로 로딩 시작이에요. | `eye_roll` | 0%…실화? | 항상 | [그림 보기](../icons/notify/afternoon-6.jpg) |
 | 8 | 마리아는 좋은 편을 택했대요 ✨ | 바쁜 오후여도 필요한 것은 한 가지(눅 10:42). 할 일 목록 맨 위에 {portion} 올려 둘게요. | `sign` | 좋은 편<br>택하는 중 | 항상 | [그림 보기](../icons/notify/afternoon-7.jpg) |
-| 9 | 바로 왕처럼 '내일' 하실 건가요? 🐸 | 개구리 재앙 언제 없애 줄까 물으니 '내일'이라던 바로(출 8:10). 어디서 많이 본 패턴인데요. | `sip` | 내일? 🐸 | 항상 | [그림 보기](../icons/notify/afternoon-8.jpg) |
+| 9 | 바로 왕처럼 '내일' 하실 건가요? 🐸 | 개구리 재앙 언제 없애 줄까 물으니 '내일'이라던 바로(출 8:10). 어디서 많이 본 패턴인데요. | `crosslegs` | 내일? 🐸 | 항상 | [그림 보기](../icons/notify/afternoon-8.jpg) |
 | 10 | 남은 알림 전에 선수 치기 🏃 | 지금 읽으면 오늘 남은 알림이 조용해져요. 알림 피하는 가장 빠른 방법! | `shush` | 조용히 끝내자 | 항상 | [그림 보기](../icons/notify/afternoon-9.jpg) |
 | 11 | 오후 3시 집중력 바닥 🫠 | 엘리야도 로뎀나무 아래서 쓰러졌지만 천사가 먹을 것을 주고 다시 세웠어요(왕상 19:5-7). {portion} 한 장으로 충전! | `lounge` | 충전 필요 | 항상 | [그림 보기](../icons/notify/afternoon-10.jpg) |
 | 12 | 점심 먹고 쇼츠 3개 봤죠? 📱 | 쇼츠는 3개에서 멈추기 힘들지만, 성경은 {portion} 한 장에서 멈춰도 괜찮아요. | `phone` | 쇼츠 말고 이거 | 항상 | [그림 보기](../icons/notify/afternoon-11.jpg) |
@@ -61,7 +61,7 @@
 | 16 | 오후 간식은 말씀 간식 🍪 | 꿀보다 달다는 말씀이에요(시 119:103). 칼로리 걱정 없는 간식! {portion} 한 입. | `crosslegs` | 칼로리 0 | 항상 | [그림 보기](../icons/notify/afternoon-15.jpg) |
 | 17 | 버스 타는 중이면 한 절 🚌 | 버스 세 정거장이면 한 장도 가능한 거리예요. {portion} 열어 두세요. | `phone` | 버스에서 한 절 | 항상 | [그림 보기](../icons/notify/afternoon-16.jpg) |
 | 18 | '내일 하지 뭐' 금지 ⏳ | 바로처럼 미루다 보면 결국 못 가요(출 8:10). 지금 {portion} 부탁! | `fingerwag` | 내일 금지 | 항상 | [그림 보기](../icons/notify/afternoon-17.jpg) |
-| 19 | 잠깐, 마음에 쉼표를 놓아 볼까요? 🍃 | 바쁜 틈에 숨을 고르고 {portion} 한 장 읽어요. 오늘도 충분히 잘하고 있어요. | `stretch` | 마음의 쉼표 | 항상 | [그림 보기](../icons/notify/afternoon-18.jpg) |
+| 19 | 잠깐, 마음에 쉼표를 놓아 볼까요? 🍃 | 바쁜 틈에 숨을 고르고 {portion} 한 장 읽어요. 오늘도 충분히 잘하고 있어요. | `cheer` | 마음의 쉼표 | 항상 | [그림 보기](../icons/notify/afternoon-18.jpg) |
 | 20 | 3분만 집중 모드 켜기 🎧 | 알림은 잠시 내려놓고 말씀 한 단락만 읽어 봐요. 작은 집중이 깊은 쉼이 됩니다. | `phone` | 집중 모드 | 항상 | [그림 보기](../icons/notify/afternoon-19.jpg) |
 | 21 | 속보: 오후의 내가 말씀을 기다립니다 📰 | 쇼츠 한 편 대신 {portion} 한 장이면 오늘 이야기의 주인공은 나예요. | `sign` | 속보입니다 | 항상 | [그림 보기](../icons/notify/afternoon-20.jpg) |
 
@@ -77,8 +77,8 @@
 | 6 | 저녁은 드셨고, 말씀은요? 🍚 | 사람이 떡으로만 살 것이 아니라 하셨는데(마 4:4), 오늘 설마 떡만 드신 건 아니죠? | `armscross` | 떡만 먹음? | 항상 | [그림 보기](../icons/notify/evening-5.jpg) |
 | 7 | 롯의 아내처럼 뒤돌아보지 마요 🧂 | 오늘 하루 돌아보며 한숨 쉬지 말고(창 19:26), 앞에 놓인 {portion}만 보고 가요. | `shock` | 소금 될 뻔 | 항상 | [그림 보기](../icons/notify/evening-6.jpg) |
 | 8 | 노아는 비 오기 전에 방주 지었어요 🛶 | 비 오고 나서 지으면 늦잖아요(창 6:22). 자정 오기 전에 {portion} 지어 봐요. | `run` | 비 오기 전에! | 항상 | [그림 보기](../icons/notify/evening-7.jpg) |
-| 9 | 여리고는 일곱 바퀴, 오늘은 한 장부터 🎺 | 여리고 성은 일곱 바퀴 돌아야 무너졌지만(수 6:4), 오늘 분량은 한 장씩 넘기면 무너져요. | `megaphone` | 뿌우우~ | 항상 | [그림 보기](../icons/notify/evening-8.jpg) |
-| 10 | 기드온처럼 표징 기다리는 중? 🐑 | 양털로 확인하던 기드온처럼(삿 6:37) 사인을 기다리셨다면… 이 양이 그 표징입니다. 지금 읽으세요. | `smirk` | 이게 표징임 | 항상 | [그림 보기](../icons/notify/evening-9.jpg) |
+| 9 | 여리고는 일곱 바퀴, 오늘은 한 장부터 🎺 | 여리고 성은 일곱 바퀴 돌아야 무너졌지만(수 6:4), 오늘 분량은 한 장씩 넘기면 무너져요. | `sign` | 뿌우우~ | 항상 | [그림 보기](../icons/notify/evening-8.jpg) |
+| 10 | 기드온처럼 표징 기다리는 중? 🐑 | 양털로 확인하던 기드온처럼(삿 6:37) 사인을 기다리셨다면… 이 양이 그 표징입니다. 지금 읽으세요. | `condescend` | 이게 표징임 | 항상 | [그림 보기](../icons/notify/evening-9.jpg) |
 | 11 | 저녁 먹고 뭐 하세요? 🍽 | 설거지 끝나고 소파에 눕기 전에 {portion} 먼저 펼쳐요. 누워서 해도 인정! | `sideeye` | 소파 전에 한 장 | 항상 | [그림 보기](../icons/notify/evening-10.jpg) |
 | 12 | 오늘 하루 감사 한 줄 준비 ✍ | 오늘 말씀 한 절에 감사 한 줄 쓰면 하루가 완성돼요(살전 5:18). | `sign` | 감사 한 줄 | 항상 | [그림 보기](../icons/notify/evening-11.jpg) |
 | 13 | ㅋㅋ 오늘 통독 안 하고 밤 되었죠? 🌙 | 밤에 하면 조금 더 힘들어요. 그래도 {portion} 한 장! | `shock` | 밤이 왔다 | 항상 | [그림 보기](../icons/notify/evening-12.jpg) |
@@ -102,44 +102,44 @@
 | 5 | 보아스가 이삭을 남겨 뒀어요 🌾 | 룻을 위해 일부러 이삭을 흘려 두던 보아스처럼(룻 2:16), 오늘 말씀 이삭도 넉넉히 남아 있어요. | `crosslegs` | 이삭 남음 ㅎ | 항상 | [그림 보기](../icons/notify/night-4.jpg) |
 | 6 | 에스라는 새벽부터 정오까지 읽었대요 📖 | 느헤미야 8장의 에스라는 반나절을 읽었는데(느 8:3), 우리는 {portion}이면 돼요. 할 만하죠? | `sign` | 에스라: 6시간<br>나: 0분 | 항상 | [그림 보기](../icons/notify/night-5.jpg) |
 | 7 | 주야로 묵상, 이제 '야'만 남았어요 🌙 | 복 있는 사람은 주야로 묵상한다죠(시 1:2). 낮은 지나갔지만 밤은 아직 길어요. | `lounge` | 이제 '야'임 | 항상 | [그림 보기](../icons/notify/night-6.jpg) |
-| 8 | 발람의 나귀도 말을 했는데 🫏 | 나귀까지 입을 열어 말렸는데(민 22:28), 이제 양까지 나섰습니다. 성경 펴세요. | `megaphone` | 양도 말함 | 항상 | [그림 보기](../icons/notify/night-7.jpg) |
-| 9 | 닭 울기 전에 세 번째 다짐? 🐓 | “오늘은 진짜 읽는다” 오늘 몇 번째 다짐이세요? 닭 울기 전에 지켜 봐요(마 26:34). | `sip` | 세 번째임 | 항상 | [그림 보기](../icons/notify/night-8.jpg) |
-| 10 | 섭리 가운데 도착한 알림입니다 😌 | 이 알림을 지금 보신 것도 섭리 안에 있겠죠? 순종으로 응답할 시간이에요. | `smirk` | 섭리임 ㅇㅇ | 항상 | [그림 보기](../icons/notify/night-9.jpg) |
-| 11 | 밤이 깊을수록 말씀이 또렷 🌃 | 밤에 읽는 시편은 참 맛있어요. 주야로 묵상하는 사람은 복 있는 사람이래요(시 1:2). {portion}! | `shrug` | 밤 시편 맛집 | 항상 | [그림 보기](../icons/notify/night-10.jpg) |
+| 8 | 발람의 나귀도 말을 했는데 🫏 | 나귀까지 입을 열어 말렸는데(민 22:28), 이제 양까지 나섰습니다. 성경 펴세요. | `sign` | 양도 말함 | 항상 | [그림 보기](../icons/notify/night-7.jpg) |
+| 9 | 닭 울기 전에 세 번째 다짐? 🐓 | “오늘은 진짜 읽는다” 오늘 몇 번째 다짐이세요? 닭 울기 전에 지켜 봐요(마 26:34). | `crosslegs` | 세 번째임 | 항상 | [그림 보기](../icons/notify/night-8.jpg) |
+| 10 | 섭리 가운데 도착한 알림입니다 😌 | 이 알림을 지금 보신 것도 섭리 안에 있겠죠? 순종으로 응답할 시간이에요. | `condescend` | 섭리임 ㅇㅇ | 항상 | [그림 보기](../icons/notify/night-9.jpg) |
+| 11 | 밤이 깊을수록 말씀이 또렷 🌃 | 밤에 읽는 시편은 참 맛있어요. 주야로 묵상하는 사람은 복 있는 사람이래요(시 1:2). {portion}! | `condescend` | 밤 시편 맛집 | 항상 | [그림 보기](../icons/notify/night-10.jpg) |
 | 12 | ㅅㄱ 또 밤에 생각났죠? 🤭 | 밤에 생각나는 말씀이 제일 오래 남아요. 지금 {portion} 한 장만요. | `crosslegs` | 밤에 생각남 | 항상 | [그림 보기](../icons/notify/night-11.jpg) |
 | 13 | 잠들기 전 기도 한마디 + 말씀 한 장 🙏 | 자기 전 말씀 한 장, 기도 한 줄이면 완벽한 마무리예요. {portion} 펴고 기도해요. | `kneel` | 취침 전 루틴 | 항상 | [그림 보기](../icons/notify/night-12.jpg) |
 | 14 | 오늘 완주 못 하면 어떡하지… 😰 | 완벽하지 않아도 돼요. 할 수 있는 만큼, {portion} 한 절부터 시작해요. | `pleading` | 한 절이면 됨 | 항상 | [그림 보기](../icons/notify/night-13.jpg) |
 | 15 | 밤 11시, 아직 살아 계신가요? 👀 | 밤샘은 말고, 깨어 있을 때 {portion} 한 번만 펼쳐요(마 26:41). | `shush` | 깨어 있기 | 항상 | [그림 보기](../icons/notify/night-14.jpg) |
 | 16 | 쇼츠 대신 시편 한 편? 🎵 | 시편은 노래책이라 노래 한 곡 듣는 셈 쳐요. {portion} 열고 소리 내 읽어 봐요. | `offerbook` | 시편 틀기 | 항상 | [그림 보기](../icons/notify/night-15.jpg) |
 | 17 | 자려고 누웠는데 폰 보는 중 🛌 | 누운 채로 {portion} 한 절만요. 그리고 폰은 내려놓아요. | `phonewait` | 누워서 한 절 | 항상 | [그림 보기](../icons/notify/night-16.jpg) |
-| 18 | 오늘 진짜 마지막 질문! 📣 | 오늘 말씀 읽었나요? NO면 지금 {portion} 한 절만 읽고 주무세요. | `slowclap` | YES or NO? | 항상 | [그림 보기](../icons/notify/night-17.jpg) |
+| 18 | 오늘 진짜 마지막 질문! 📣 | 오늘 말씀 읽었나요? NO면 지금 {portion} 한 절만 읽고 주무세요. | `eye_roll` | YES or NO? | 항상 | [그림 보기](../icons/notify/night-17.jpg) |
 | 19 | 오늘 하루, 여기까지도 수고했어요 🌌 | 남은 힘이 적다면 한 절만 읽어도 좋아요. 말씀 안에서 하루를 다정하게 마무리해요. | `heartplease` | 한 절도 좋아요 | 항상 | [그림 보기](../icons/notify/night-18.jpg) |
-| 20 | 마감 임박! 성경책은 야근 안 시킬게요 🕘 | 전부 끝내려 애쓰지 않아도 돼요. {portion}에서 한 장만 함께 읽어요. | `ugh` | 한 장이면 충분 | 항상 | [그림 보기](../icons/notify/night-19.jpg) |
-| 21 | 야식 대신 말씀 한 입 🍯 | 오늘의 양식은 아직 남아 있어요. {portion} 한 장 맛보고 편히 잠들어요. | `sip` | 마음 야식 | 항상 | [그림 보기](../icons/notify/night-20.jpg) |
+| 20 | 마감 임박! 성경책은 야근 안 시킬게요 🕘 | 전부 끝내려 애쓰지 않아도 돼요. {portion}에서 한 장만 함께 읽어요. | `facepalm` | 한 장이면 충분 | 항상 | [그림 보기](../icons/notify/night-19.jpg) |
+| 21 | 야식 대신 말씀 한 입 🍯 | 오늘의 양식은 아직 남아 있어요. {portion} 한 장 맛보고 편히 잠들어요. | `crosslegs` | 마음 야식 | 항상 | [그림 보기](../icons/notify/night-20.jpg) |
 
 ## last (20개)
 
 | # | 알림 제목 | 알림 본문 | 양 포즈 | 그림 말풍선 | 조건 | 이미지 |
 |---:|---|---|---|---|---|---|
-| 1 | 열 처녀 비유, 등불 점검 🪔 | 자정까지 한 시간! 오늘 통독 등불이 아직 꺼져 있어요(마 25장). 기름 채우러 가요. | `lamp` | 기름 없음!! | 항상 | [그림 보기](../icons/notify/last-0.jpg) |
-| 2 | 🔥 {streak}일 연속 기록이 위태로워요 | 바울은 달려갈 길을 마쳤다는데(딤후 4:7), 우리의 연속 통독은 오늘 멈출 위기예요. | `beg` | 연속 기록!! | streak | [그림 보기](../icons/notify/last-1.jpg) |
+| 1 | 열 처녀 비유, 등불 점검 🪔 | 자정까지 한 시간! 오늘 통독 등불이 아직 꺼져 있어요(마 25장). 기름 채우러 가요. | `point` | 기름 없음!! | 항상 | [그림 보기](../icons/notify/last-0.jpg) |
+| 2 | 🔥 {streak}일 연속 기록이 위태로워요 | 바울은 달려갈 길을 마쳤다는데(딤후 4:7), 우리의 연속 통독은 오늘 멈출 위기예요. | `cling` | 연속 기록!! | streak | [그림 보기](../icons/notify/last-1.jpg) |
 | 3 | 니고데모도 밤에 찾아왔어요 🌃 | 늦은 밤에 말씀 앞에 나와도 괜찮아요(요 3:2). 지금 한 장이라도 펼쳐요. | `peek` | 밤에 와도 됨 | 항상 | [그림 보기](../icons/notify/last-2.jpg) |
 | 4 | 개미에게 가서 배우라시던데요 🐜 | 잠언 6장 6절이 이 시간에 떠오른 건 우연일까요? 아직 늦지 않았어요. | `sign` | 개미 보고<br>배우는 중 | 항상 | [그림 보기](../icons/notify/last-3.jpg) |
 | 5 | 당회에는 비밀로 할게요 🤫 | 오늘 통독 안 한 거, 목사님·장로님껜 말 안 할게요. 대신 자기 전에 {portion} 딱 펼쳐 주세요. | `shush` | 비밀 지켜줌 | 항상 | [그림 보기](../icons/notify/last-4.jpg) |
 | 6 | 마지막 알림이에요. 진짜로요. | 은혜는 값없이 주어지지만 성경은 펼쳐야 읽혀요. 오늘이 가기 전에 한 장만이라도! 🙏 | `lastlook` | 진짜 마지막 | 항상 | [그림 보기](../icons/notify/last-5.jpg) |
 | 7 | 말씀 기근 경보 ⚠ | 양식이 아니라 말씀이 없는 기근이 가장 무섭다죠(암 8:11). 자정 전에 해제해 주세요. | `tearful` | 기근 경보!! | 항상 | [그림 보기](../icons/notify/last-6.jpg) |
 | 8 | 내일의 나에게 떠넘기기 금지 🙅 | 내일 일은 내일이 염려할 거예요(마 6:34). 오늘 분량은 오늘 읽기로 해요. | `armscross` | 내일 금지 | 항상 | [그림 보기](../icons/notify/last-7.jpg) |
-| 9 | 삼손, 머리카락 잘리기 직전 ✂ | 들릴라 무릎에서 잠든 삼손처럼(삿 16:19) 이대로 자면… 오늘 통독도 싹둑이에요. | `faint` | 힘이 빠져… | 항상 | [그림 보기](../icons/notify/last-8.jpg) |
-| 10 | 이불 속에서도 성경은 열려요 🛏 | 이불 밖은 위험하다지만 성경 앱은 이불 안에서도 열려요. 자기 전 {portion}, 누운 채로 가능! | `hide` | 누워서 가능 | 항상 | [그림 보기](../icons/notify/last-9.jpg) |
+| 9 | 삼손, 머리카락 잘리기 직전 ✂ | 들릴라 무릎에서 잠든 삼손처럼(삿 16:19) 이대로 자면… 오늘 통독도 싹둑이에요. | `shock` | 힘이 빠져… | 항상 | [그림 보기](../icons/notify/last-8.jpg) |
+| 10 | 이불 속에서도 성경은 열려요 🛏 | 이불 밖은 위험하다지만 성경 앱은 이불 안에서도 열려요. 자기 전 {portion}, 누운 채로 가능! | `phone` | 누워서 가능 | 항상 | [그림 보기](../icons/notify/last-9.jpg) |
 | 11 | 방주 문 닫히기 전 마지막 탑승 🚪 | 방주 문은 하나님이 닫으셨죠(창 7:16). 오늘 통독 문은 자정에 닫혀요. 지금 탑승! | `point` | 탑승하세요 | 항상 | [그림 보기](../icons/notify/last-10.jpg) |
 | 12 | 자정 전 마지막 기회 ⏰ | 마감 5분 전! {portion} 한 절이라도 오늘 안에 체크해요. | `stomp` | 마감 5분 전 | 항상 | [그림 보기](../icons/notify/last-11.jpg) |
 | 13 | 여기까지 온 것도 잘한 일이에요 💛 | 늦었다고 자책하지 말고 한 절만 읽어요. 오늘의 작은 시작도 귀합니다. | `lastlook` | 작은 시작도 귀해요 | 항상 | [그림 보기](../icons/notify/last-12.jpg) |
 | 14 | 마지막 퀘스트: 말씀 한 장 🎮 | 오늘의 출석 보상은 거창하지 않아요. {portion} 한 장 읽고 편히 로그아웃! | `clutchbook` | 퀘스트 수락? | 항상 | [그림 보기](../icons/notify/last-13.jpg) |
 | 15 | 속보: 오늘의 빈칸, 아직 채울 수 있음 🗞 | 자정 전까지 시간이 있어요. {portion} 한 장으로 오늘을 마무리해요. | `reach` | 마감 전 속보 | 항상 | [그림 보기](../icons/notify/last-14.jpg) |
-| 16 | 오늘 통독표 빈칸 발견 🕳 | 하루 빈칸이 쌓이면 허전하죠. 지금 {portion} 한 절로 메워 봐요. | `wait` | 빈칸 발견 | 항상 | [그림 보기](../icons/notify/last-15.jpg) |
+| 16 | 오늘 통독표 빈칸 발견 🕳 | 하루 빈칸이 쌓이면 허전하죠. 지금 {portion} 한 절로 메워 봐요. | `phonewait` | 빈칸 발견 | 항상 | [그림 보기](../icons/notify/last-15.jpg) |
 | 17 | 달은 떴는데 성경은 안 펴졌네요 🌙 | 지금 한 절만 펴면 오늘의 달빛이 말씀이 돼요. | `peek` | 달빛 말씀 | 항상 | [그림 보기](../icons/notify/last-16.jpg) |
 | 18 | 불 끄기 전 마지막 체크 💡 | 방 불 끄기 전에 {portion} 체크하고 주무세요. 잔소리 아니고 알림입니다. | `nope` | 불 끄기 전에 | 항상 | [그림 보기](../icons/notify/last-17.jpg) |
-| 19 | 성경도 자러 가고 싶대요 🛏 | 책도 오늘 밤 펴서 읽어 주면 좋아해요. {portion} 펴 줘요! | `hide` | 책도 잠 필요 | 항상 | [그림 보기](../icons/notify/last-18.jpg) |
+| 19 | 성경도 자러 가고 싶대요 🛏 | 책도 오늘 밤 펴서 읽어 주면 좋아해요. {portion} 펴 줘요! | `phone` | 책도 잠 필요 | 항상 | [그림 보기](../icons/notify/last-18.jpg) |
 | 20 | 오늘 마지막 알림, 착한 양들 🐑🐑 | 오늘 한 장이라도 읽은 양이면 좋겠어요. {portion}, 지금이 골든타임! | `cling` | 오늘 마지막 콜 | 항상 | [그림 보기](../icons/notify/last-19.jpg) |
 
 ## done (6개)
